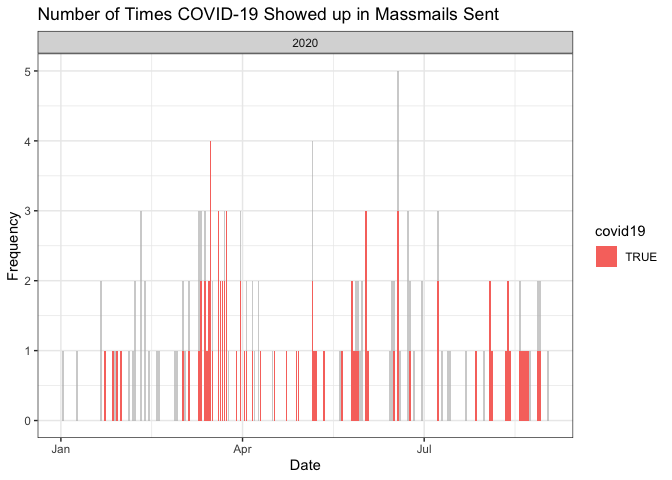
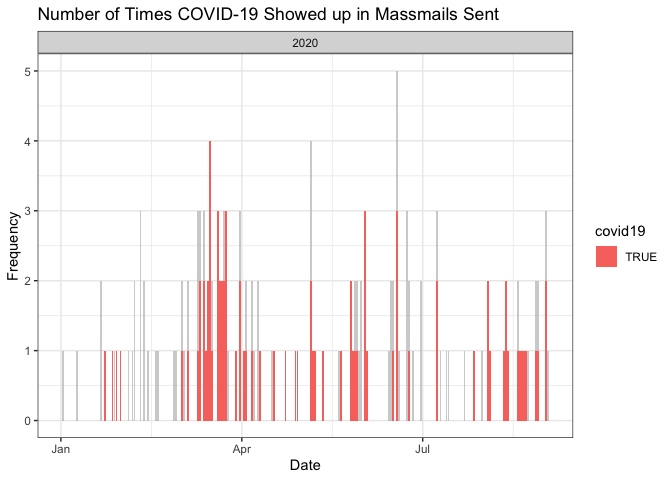
Re-build README.Rmd and Graphs

Changed region(s): [[0.1562, 0.3125, 0.8125, 0.875], [0.3438, 0.9062, 0.375, 0.9688], [0.625, 0.9062, 0.6562, 0.9375]]

diff --git a/README.md b/README.md
@@ -17,7 +17,7 @@ The archive may be viewed here:
 
 <https://massmail.illinois.edu/massmailArchive>
 
-Data has **1190** observations and **7** variables:
+Data has **1193** observations and **7** variables:
 
   - `datetime`: Date and time when the email was sent in the form of
     `YYYY-MM-DD HMS` with either CDT or CST.
@@ -205,16 +205,16 @@ head(most_popular_words, 10) %>%
 
 | word        | freq |
 | :---------- | ---: |
-| students    |  534 |
-| university  |  466 |
-| campus      |  453 |
-| illinois    |  298 |
+| students    |  565 |
+| university  |  487 |
+| campus      |  460 |
+| illinois    |  307 |
 | faculty     |  286 |
-| information |  237 |
-| covid       |  231 |
-| community   |  228 |
+| covid       |  251 |
+| information |  238 |
+| community   |  235 |
 | staff       |  224 |
-| health      |  201 |
+| health      |  211 |
 
 #### Wordcloud
 
